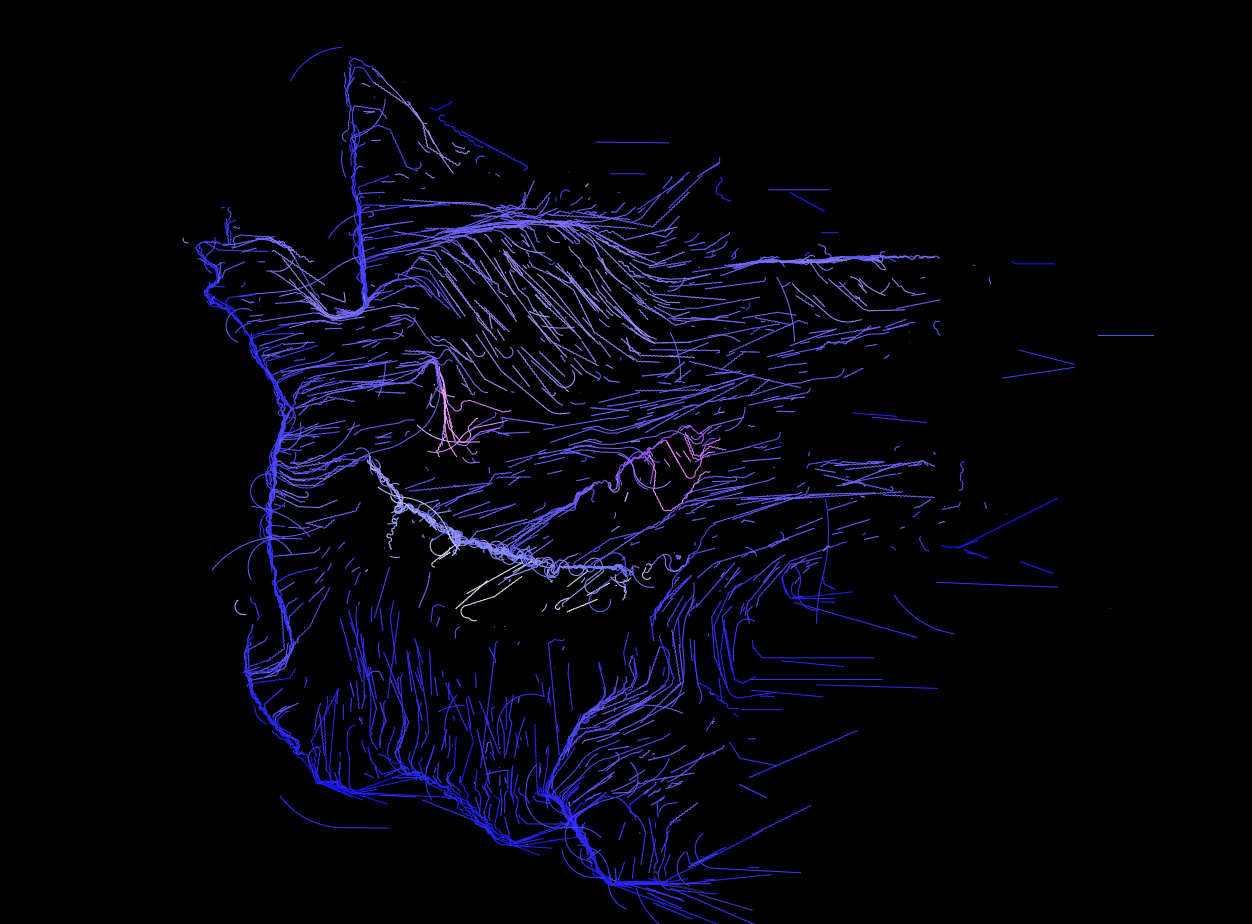
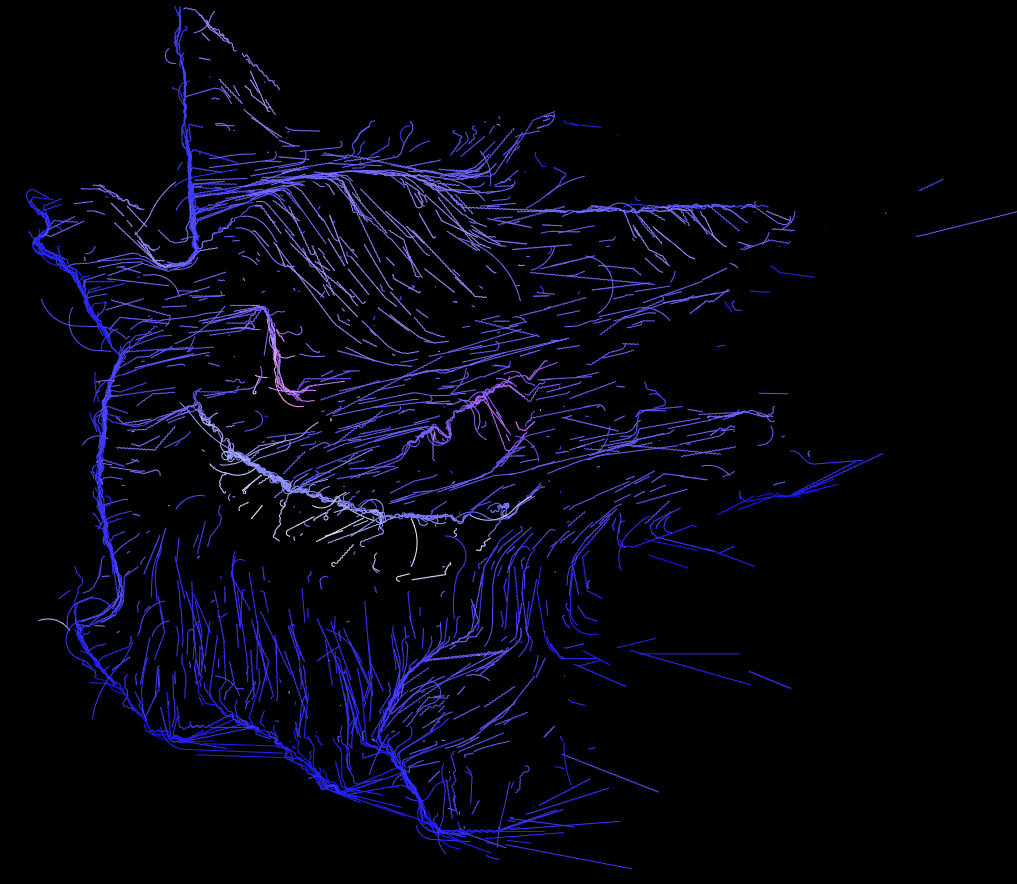
adds project section animation

diff --git a/lib/data.ts b/lib/data.ts
@@ -35,51 +35,35 @@ export const links = [
 
 export const experiencesData = [
   {
-    title: "Graduated bootcamp",
-    location: "Miami, FL",
+    title: "Software development Diploma",
+    location: "Calgary, AB",
     description:
-      "I graduated after 6 months of studying. I immediately found a job as a front-end developer.",
+      "Expected graduation: 2024",
     icon: React.createElement(LuGraduationCap),
-    date: "2019",
-  },
-  {
-    title: "Front-End Developer",
-    location: "Orlando, FL",
-    description:
-      "I worked as a front-end developer for 2 years in 1 job and 1 year in another job. I also upskilled to the full stack.",
-    icon: React.createElement(CgWorkAlt),
-    date: "2019 - 2021",
-  },
-  {
-    title: "Full-Stack Developer",
-    location: "Houston, TX",
-    description:
-      "I'm now a full-stack developer working as a freelancer. My stack includes React, Next.js, TypeScript, Tailwind, Prisma and MongoDB. I'm open to full-time opportunities.",
-    icon: React.createElement(FaReact),
-    date: "2021 - present",
+    date: "2022-2024",
   },
 ] as const;
 
 export const projectsData = [
   {
-    title: "CorpComment",
+    title: "AirBnb clone",
     description:
-      "I worked as a full-stack developer on this startup project for 2 years. Users can give public feedback to companies.",
-    tags: ["React", "Next.js", "MongoDB", "Tailwind", "Prisma"],
-    imageUrl: pokemonImg,
-  },
-  {
-    title: "rmtDev",
-    description:
-      "Job board for remote developer jobs. I was the front-end developer. It has features like filtering, sorting and pagination.",
-    tags: ["React", "TypeScript", "Next.js", "Tailwind", "Redux"],
+      "A full-stack Airbnb clone that has many features such as google authentication, booking/reservation system and etc.",
+    tags: ["React", "TypeScript", "Next.js", "Tailwind", "Prisma", "MongoDB", "NextAuth"],
     imageUrl: airbnbImg,
   },
   {
-    title: "Word Analytics",
+    title: "Pokemon derivative",
     description:
-      "A public web app for quick analytics on text. It shows word count, character count and social media post limits.",
-    tags: ["React", "Next.js", "SQL", "Tailwind", "Framer"],
+      "Created pokemon like web game for fun using html canvas and javascript",
+    tags: ["JavaScript", "HTML5", "CSS3"],
+    imageUrl: pokemonImg,
+  },
+  {
+    title: "Flow fields",
+    description:
+      "Flow fields are a technique used in computer graphics and simulations to simulate fluid motion or create interesting visual effects.",
+    tags: ["JavaScript", "HTML5", "CSS3"],
     imageUrl: gengarImg,
   },
 ] as const;
@@ -93,15 +77,12 @@ export const skillsData = [
   "Next.js",
   "Node.js",
   "Git",
+  "Bash",
   "Tailwind",
   "Prisma",
   "MongoDB",
-  "Redux",
-  "GraphQL",
-  "Apollo",
-  "Express",
+  "Oracle SQL",
   "PostgreSQL",
   "Python",
-  "Django",
   "Framer Motion",
 ] as const;

diff --git a/components/projects.tsx b/components/projects.tsx
@@ -1,0 +1,70 @@
+"use client";
+
+import React from "react";
+import SectionHeading from "./section-heading";
+import { projectsData } from "@/lib/data";
+import Image from "next/image";
+import { useScroll } from "framer-motion";
+
+type Props = {};
+
+export default function Projects() {
+  return (
+    <section>
+      <SectionHeading>My projects</SectionHeading>
+      <div>
+        {projectsData.map((project, index) => (
+          <React.Fragment key={index}>
+            <Project {...project} />
+          </React.Fragment>
+        ))}
+      </div>
+    </section>
+  );
+}
+
+type ProjectProps = (typeof projectsData)[number];
+
+function Project({ title, description, tags, imageUrl }: ProjectProps) {
+    useScroll();
+
+  return (
+    <section className="group bg-gray-100 max-w-[42rem] border-black/5 overflow-hidden sm:pr-8 relative sm:h-[20rem] mb-3 sm:mb-8 last:mb-0 even:pl-8 hover:bg-gray-200 transition">
+      <div className="pt-4 pb-7 px-5 sm:pl-10 sm:pr-2 sm:pt-10 sm:max-w-[50%] flex flex-col h-full group-even:ml-[18rem]">
+        <h3 className="text-2xl font-semibold">{title}</h3>
+        <p className="mt-2 leading-relaxed text-gray-700">{description}</p>
+        <ul className="flex flex-wrap mt-4 gap-2 sm:mt-auto">
+          {tags.map((tag, index) => (
+            <li
+              className="bg-black/[0.7] px-3 py-1 text-[0.7rem] uppercase tracking-wider text-white rounded-full"
+              key={index}
+            >
+              {" "}
+              {tag}
+            </li>
+          ))}
+        </ul>
+      </div>
+
+      <Image
+        src={imageUrl}
+        alt={title}
+        quality={95}
+        className="absolute top-8 -right-40 w-[28.25rem] rounded-t-lg shadow-2xl 
+        group-even:-right-[initial] 
+        group-even:-left-40 
+        group-hover:scale-[1.04] 
+        transition
+
+        group-hover:-translate-x-3 
+        group-hover:translate-y-3 
+        group-hover:-rotate-2
+        
+        group-even:group-hover:translate-x-3 
+        group-even:group-hover:translate-y-3 
+        group-even:group-hover:rotate-2"
+        
+      />
+    </section>
+  );
+}

diff --git a/app/page.tsx b/app/page.tsx
@@ -1,5 +1,6 @@
 import About from "@/components/about";
 import Intro from "@/components/intro";
+import Projects from "@/components/projects";
 import SectionDivider from "@/components/section-divider";
 
 export default function Home() {
@@ -8,6 +9,8 @@ export default function Home() {
       <Intro />
       <SectionDivider />
       <About />
+      <SectionDivider />
+      <Projects />
     </main>
   )
 }

diff --git a/components/section-heading.tsx b/components/section-heading.tsx
@@ -8,6 +8,6 @@ export default function SectionHeading({
     children
 }: SectionHeadingProps) {
   return (
-    <h2 className='text-3xl font-medium capitalize mb-8'>{children}</h2>
+    <h2 className='text-3xl font-medium capitalize mb-8 text-center'>{children}</h2>
   )
 }
